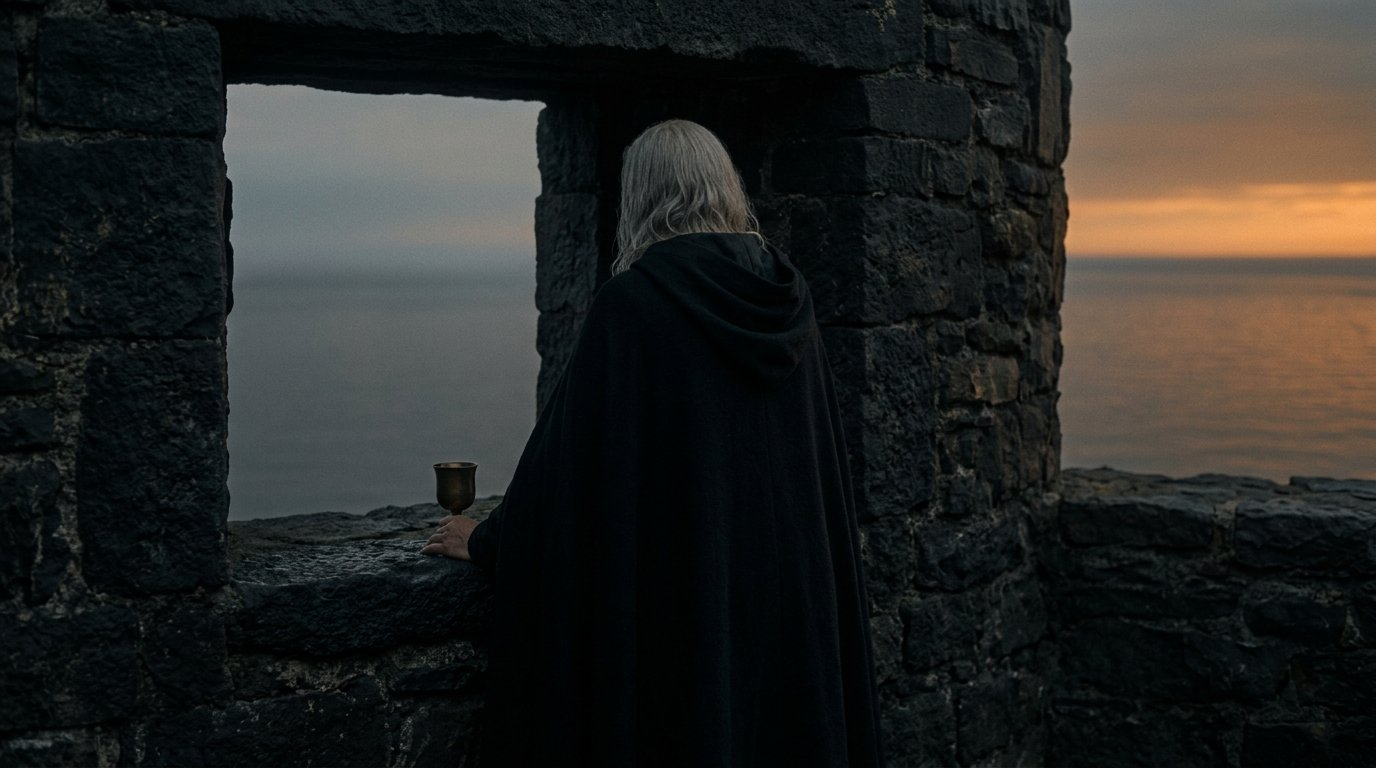
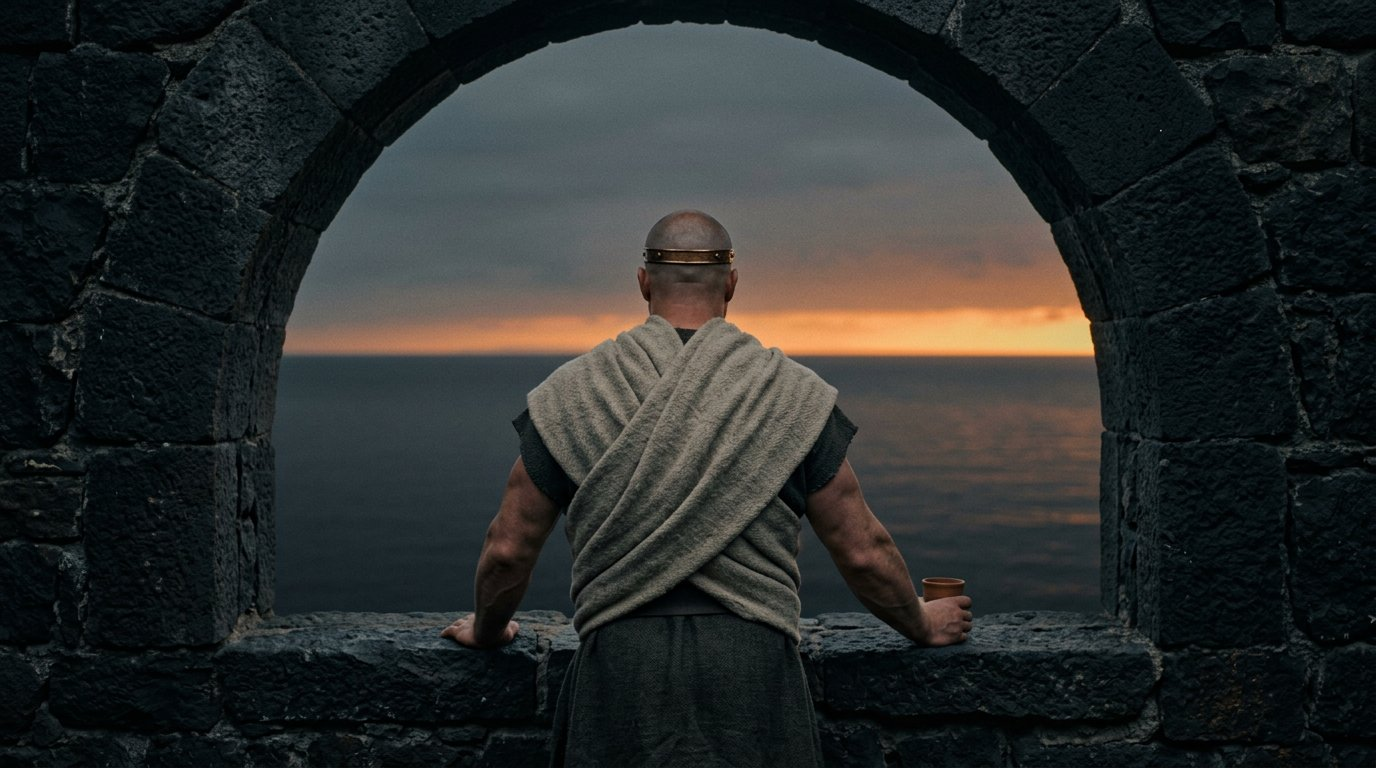
fix(art): seven more scenes, including the lead silhouette twice
Read out of the cut, not the masters: 041 was heraldic double-headed
eagle banners, 048 had the pale-haired riders, 051 a legionary aquila
over a market door, 052 the lead at a window in silver hair and a black
cloak exactly as its direction asked, 054 eagles struck on the coins.

052 and 048 had never been rewritten — an early note here said 052
"should be composed so no face is legible", which treated the camera and
left the costume. That note was the error.

Ban now carries a no-eagles-or-heraldry clause.

diff --git a/scripts/episode-audit/ep002_scene_directions.py b/scripts/episode-audit/ep002_scene_directions.py
@@ -42,7 +42,9 @@ BAN = (
     "Fantasy antiquity only. Not Rome, not Greece, not medieval Europe, "
     "not the modern world. Every face unfamiliar and invented. No steel or "
     "iron helmets, no quilted field jackets, no military uniforms of any era, "
-    "no soldiers who could be from a real army."
+    "no soldiers who could be from a real army. NO EAGLES OR HERALDRY: no "
+    "eagle standards or legionary aquila, no double-headed eagles, no heraldic "
+    "banners or charges, no coats of arms, no sigils."
 )
 
 # Palette the whole episode lives in.
@@ -132,7 +134,7 @@ SCENES = {
     'lamplight, then grey'),
 40: ("The buried jar still closed in complete darkness under the floor, ash beginning to "
      "sift down through the boards onto its lid.", "black, one grey shaft of light"),
-41: ('Four captured Ghiscari war banners of ochre cloth hung in a row on a brick wall, each bearing a painted harpy with spread wings, four, all intact, none of them burned, faded crimson and ochre.',
+41: ('Four torn strips of dyed cloth hanging from iron hooks on a rough brick wall in a dim room, faded crimson and ochre and undyed linen, frayed at the hems and sun-bleached in uneven bands, the cloth stained and patched and mended by hand, no painted design and no emblem on any of them, just cloth. No heraldry, no crest, no coat of arms, no eagle, no double-headed eagle, no banner charge of any kind.',
     'faded crimson and ochre'),
 42: ('A Ghiscari council of war in a bare brick vault seen from behind at a low angle: six seated men in plain undyed robes with cropped dark hair, none of them seen from the front, a rough slab table between them carrying small clay blocks arranged as walls and streets, iron sconces on cracked plaster, no silver hair, no hooded cloaks in black, no dragon skull, no carved ornamental wall, no throne, no painted map, no gilded hall.',
     "warm firelight"),
@@ -146,20 +148,19 @@ SCENES = {
      "of smoke, the shore black.", "orange fire, black smoke, grey sea"),
 47: ("A collapsed brick house interior seen from above through the fallen roof, the floor "
      "broken, the jar below still sealed in the dark under it.", "grey ash, deep shadow"),
-48: ('A long column of Ghiscari captives on a desert road seen from behind and above: barefoot figures in ochre tunics with bundles on their heads, a dust plume, and further back a line of Valyrian riders on short desert horses, dark cloaks and pale silver hair, the road going on past the horizon, no faces legible.',
+48: ('A long column of Ghiscari captives on a desert road seen from behind and above: barefoot figures in undyed ochre tunics with bundles on their heads, a dust plume rising, and far back along the road a few Valyrian riders on short desert horses, seen only as small dark silhouettes, cropped dark hair and undyed travelling wraps, the road going on past the horizon, no faces legible. No pale or silver hair, no long white hair, no black cloaks, no capes, no hooded riders.',
     VALYRIA),
 49: ('A single vast square brick tower standing on an ash plain beside a grey sea, its face sheer and unstepped and its summit flat, the whole lower half sheared away and slumped into a long scree of brick, seen from a low angle, no pyramid, no ziggurat, no staircase up the face, no tiered terraces, no polished casing.',
     "ash grey, cold light"),
 50: ("A long refugee column walking a dusty road away from the camera in the last light, bundles and waterskins on their backs and a hand cart and a goat, plain cloaks and hoods of undyed wool, one child holding an adult's hand, the sea and a broken ochre city behind, seen from behind at a distance so no face is legible, no plastic bags, no nylon backpacks, no modern clothing, no vehicles.",
     "dusk, sea haze"),
-51: ("A small side-street temple in a lesser city with a bronze harpy above the door, "
-     "markets going on around it, coin weighed in a hand in the foreground.",
+51: ("A small side street of a lesser city in the afternoon, a plain clay-and-brick doorway with nothing above it, a back-alley market of baskets and clay jars and undyed cloth going on around it, a pair of hands in the foreground weighing a featureless gold disc on a small balance, the disc turned so nothing is struck on it, and every person in the street seen from behind or turned away, no face legible, no bronze bird over the door, no eagle, no standard, no emblem, no legionary aquila.",
      GHIS + ", ordinary afternoon"),
-52: ('A tall figure in a long black cloak seen from behind at a tall unglazed stone window above a calm black sea, one hand resting on the sill holding a bronze wine cup, pale silver-grey hair, head turned to the water, the face not visible at all and no profile and no chin in frame, black stone sill, golden hour on the horizon, the sea entirely still.',
+52: ('A broad-shouldered guard with a shaved head and a plain bronze circlet standing at a tall unglazed stone window above a calm black sea, seen from behind, one hand on the sill holding a clay cup, a coarse undyed wool wrap over a dark homespun tunic, no cloak, the face not visible, black stone sill, golden hour on the horizon, the sea entirely still. No silver hair, no pale grey hair, no long white hair, no braids, no black cloak, no cape, no hooded robe.',
     VALYRIA),
 53: ('A golden age Ghiscari coastline: busy harbours of flat-roofed ochre warehouses, fishing boats, full granaries, a dragon a distant speck in the sky, everything peaceful and slightly too quiet, no domes, no church towers.',
     'warm gold, blue sea'),
-54: ("A harpy-stamped gold coin lying flat on a scarred wooden market counter in close focus, a second and third identical coin further along the same counter as it recedes into the blurred distance, a shallow pan of grain beside them, a merchant's hands resting at the edge of frame, no faces, awnings above, everything resting solidly on the wood, no free-floating objects.",
+54: ("A shallow pan of pale grain on a scarred wooden market counter in close focus, a worn gold disc lying flat beside it with its face turned down against the wood so only the blank reverse and the milled rim show, a merchant's weathered hands resting at the edge of frame, awnings above, blurred stalls behind, nothing free-floating, no coin face visible at any point. No eagle, no bird, no winged figure, no profile head, no heraldry, no emblem struck on the metal.",
     'mixed warm light'),
 55: ('A hand passing a small gold coin to another hand across a market stall in low evening light, both forearms in coarse wool and a bronze wrist-ring, a small clay oil lamp with an open pinched spout burning on the boards between them, blurred stalls behind, no glass lamp, no glass chimney, no lantern glass, no metal shade.',
     "warm lamplight, dusk"),
